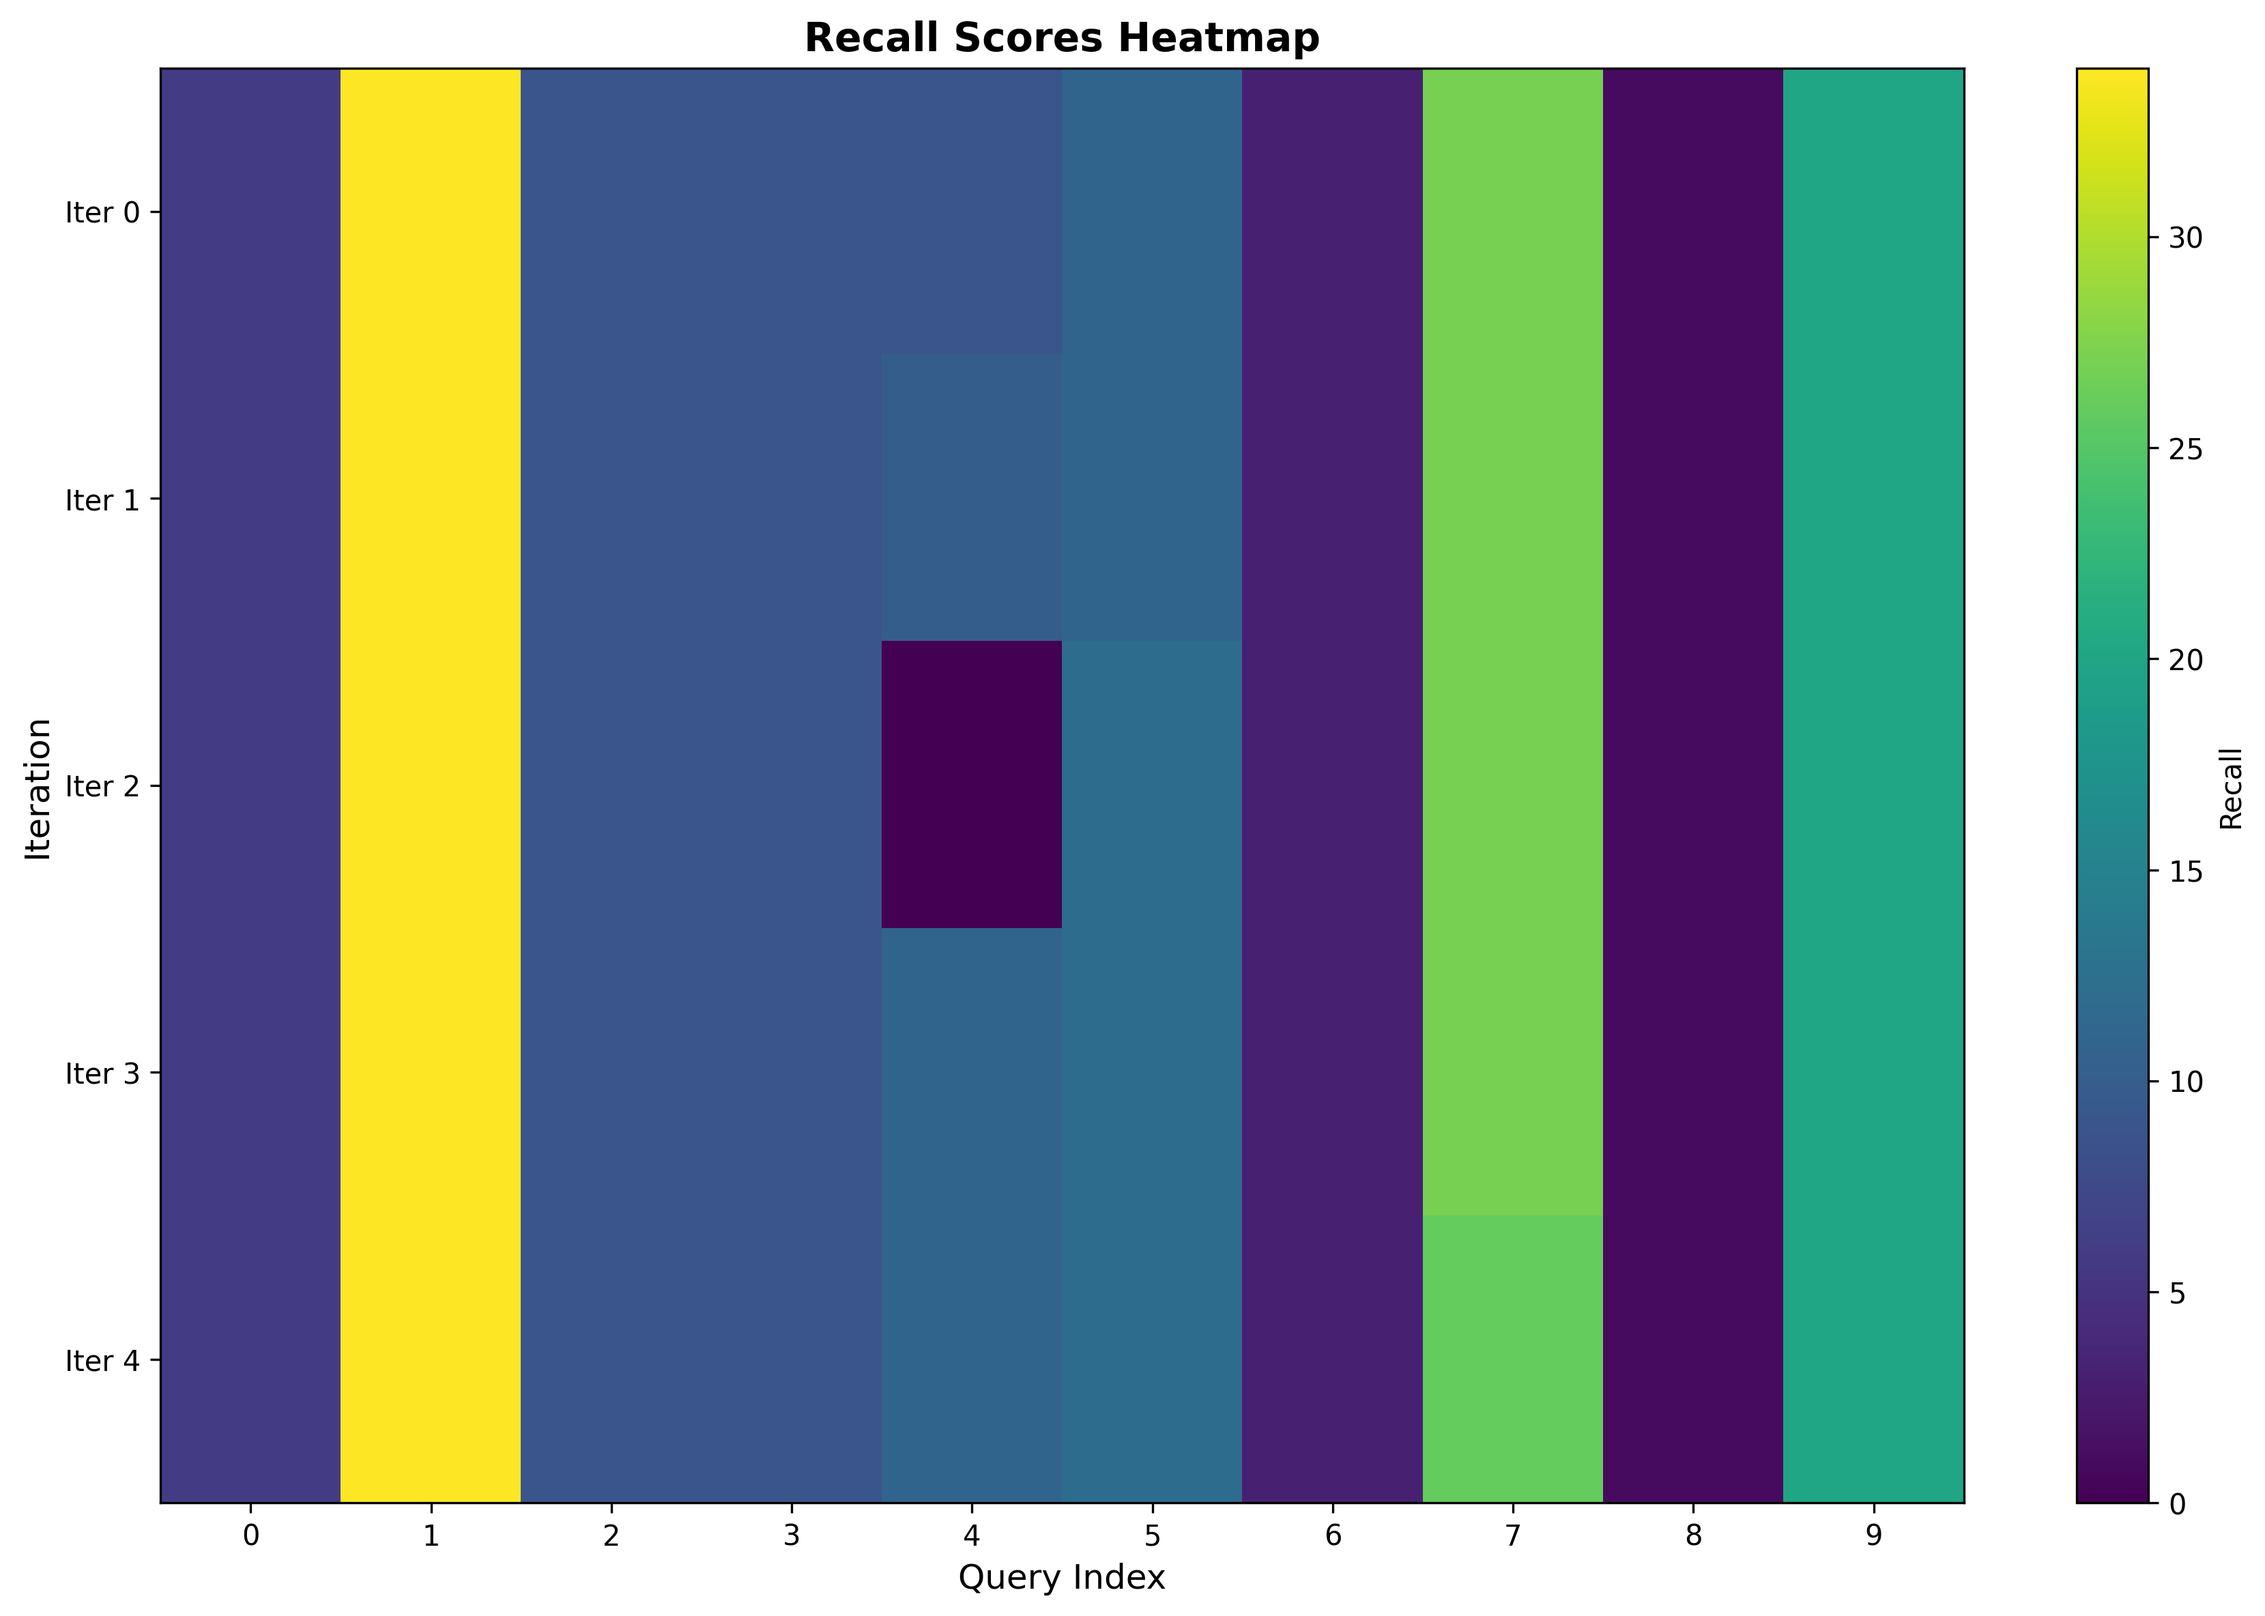
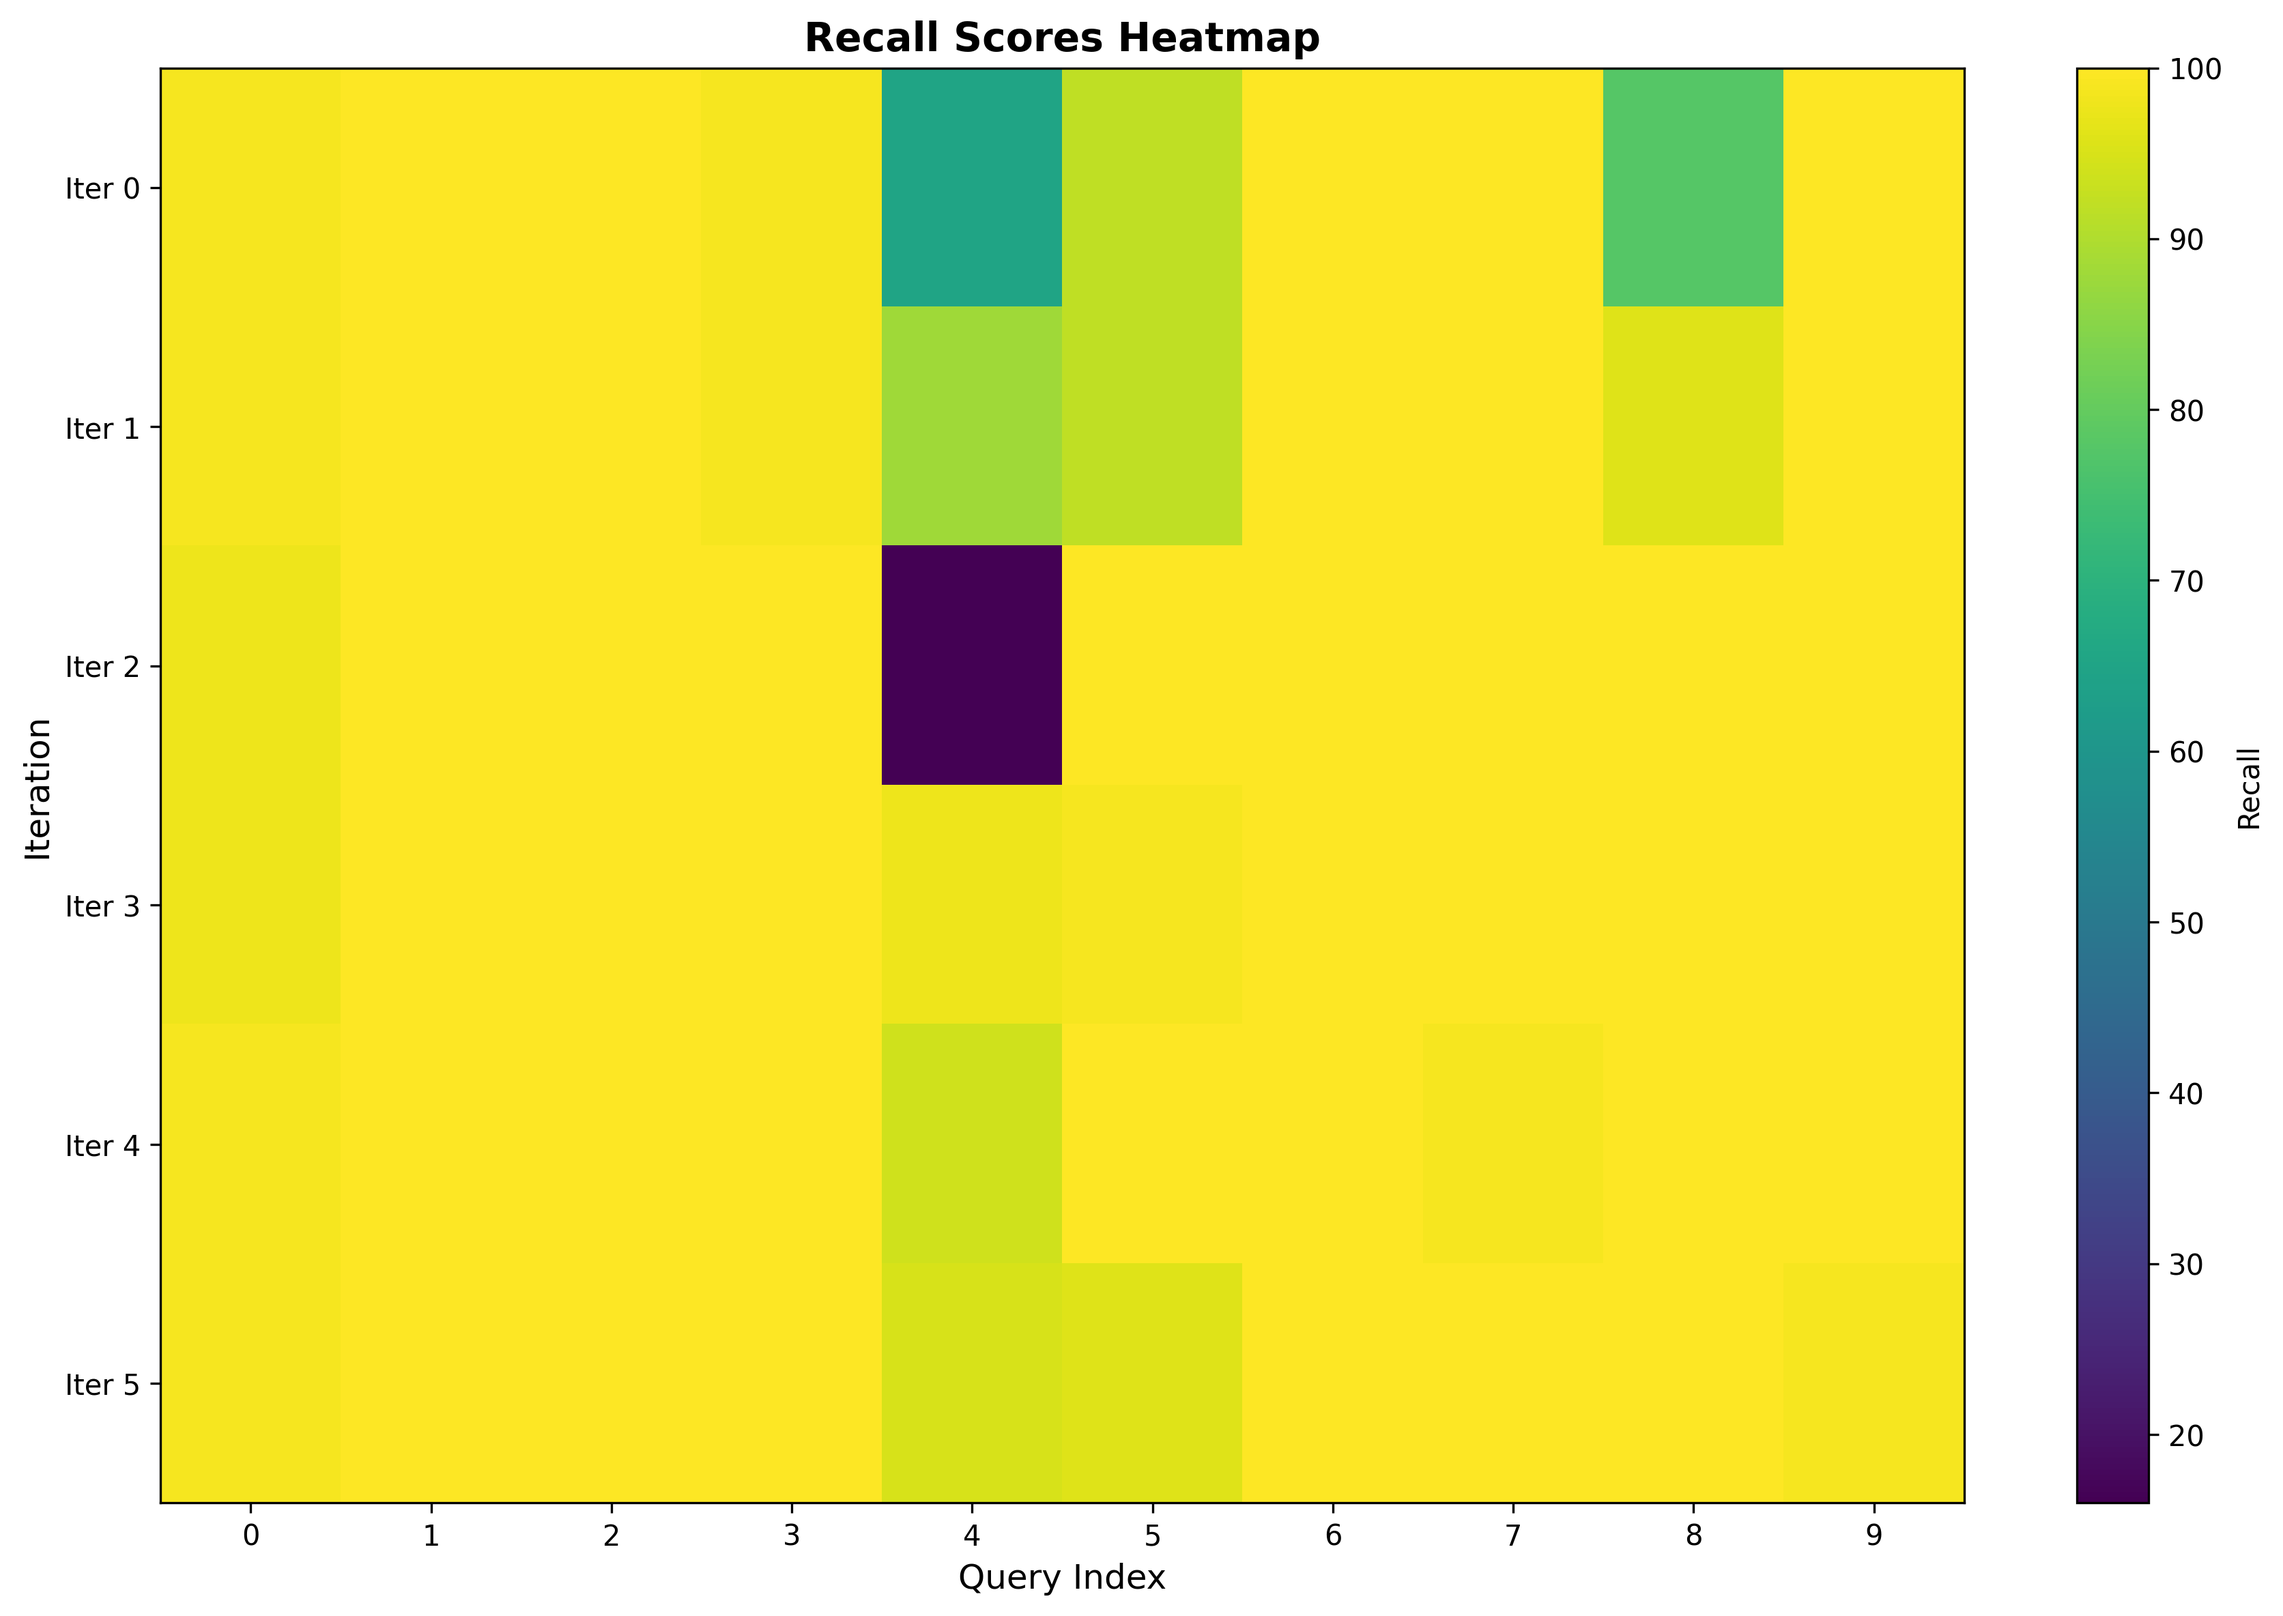
WIP: Reclustering Approach

diff --git a/src/main.cpp b/src/main.cpp
@@ -2979,6 +2979,14 @@ void benchmark_fast_reclustering(InputParser &input) {
         index.getRealOverlapScores(&overlapScores, numScores);
         writeToFile(real_overlapping_file_path, reinterpret_cast<const uint8_t *>(overlapScores), numScores * sizeof(double));
 
+        // Write centroids too
+        auto mega_centroids_file_path = "mega_centroids_iter_" + std::to_string(iter + 1) + ".bin";
+        const float* megaCentroids;
+        size_t numMegaCentroids;
+        index.getMegaCentroids(&megaCentroids, numMegaCentroids);
+        writeToFile(mega_centroids_file_path, reinterpret_cast<const uint8_t *>(megaCentroids),
+                    numMegaCentroids * queryDimension * sizeof(float));
+
         // Calculate and write recall after writing overlap scores
         // Write per-query recall for the first probe combination
         std::vector<double> queryRecalls;

diff --git a/src/include/reclustering_index.h b/src/include/reclustering_index.h
@@ -157,6 +157,11 @@ namespace orangedb {
             n = avgRealOverlapScores.size();
         }
 
+        void getMegaCentroids(const float **_centroids, size_t &n) const {
+            *_centroids = megaCentroids.data();
+            n = megaCentroids.size() / dim;
+        }
+
         void saveOldScoreForMegaClusters();
 
         std::vector<vector_idx_t> getMegaCentroidsToRecluster() const;
